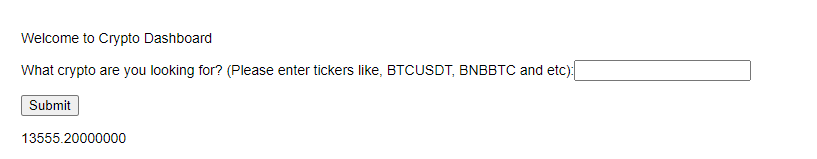
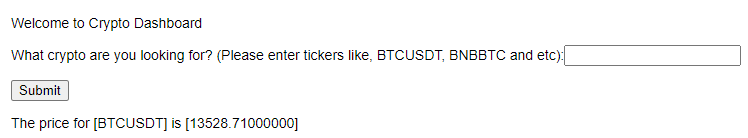
Update search page

diff --git a/docs/group assignment 3/binance-price-node/routes/index.js b/docs/group assignment 3/binance-price-node/routes/index.js
@@ -13,12 +13,12 @@ router.get('/', function(req, res, next) {
   const target_ticker = req.query.ticker;
   console.log(target_ticker);
   if(typeof target_ticker == "undefined"){
-    res.render('index', {ticker_price: " "});
+    res.render('index', {ticker: " ", ticker_price: " "});
   }
   binance.prices(target_ticker, (error, ticker) => {
     const price = ticker[Object.keys(ticker)[0]];
     console.info("Price of BTC: ", price);
-    res.render('index', { ticker_price: price });
+    res.render('index', {ticker: req.query.ticker, ticker_price: price });
   });
 });
 
